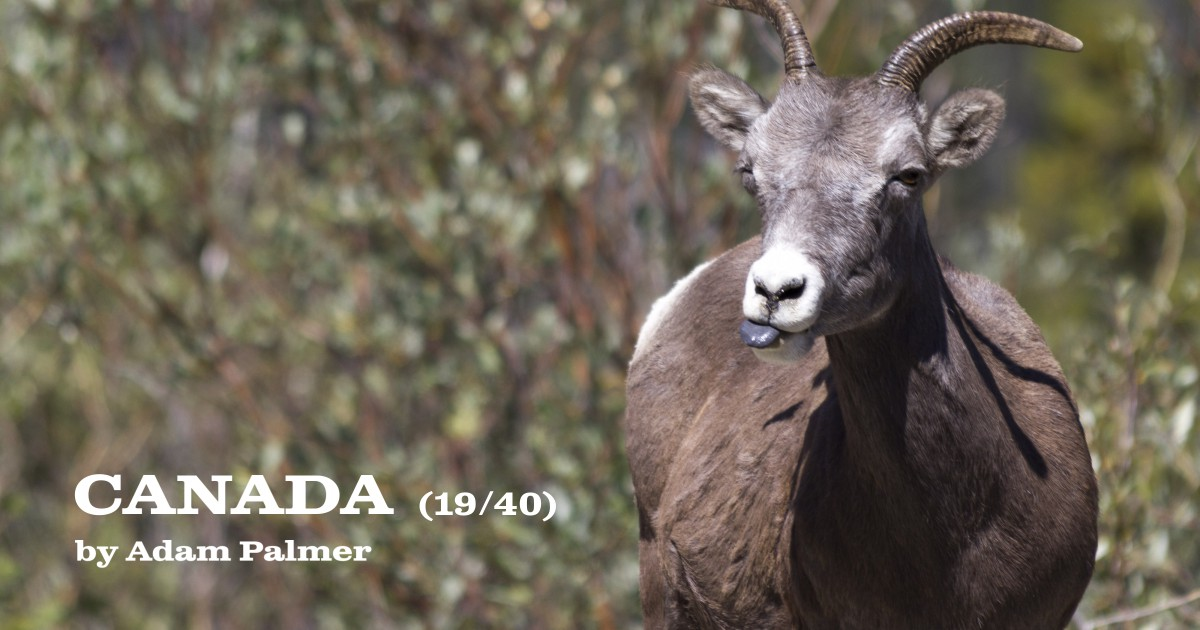
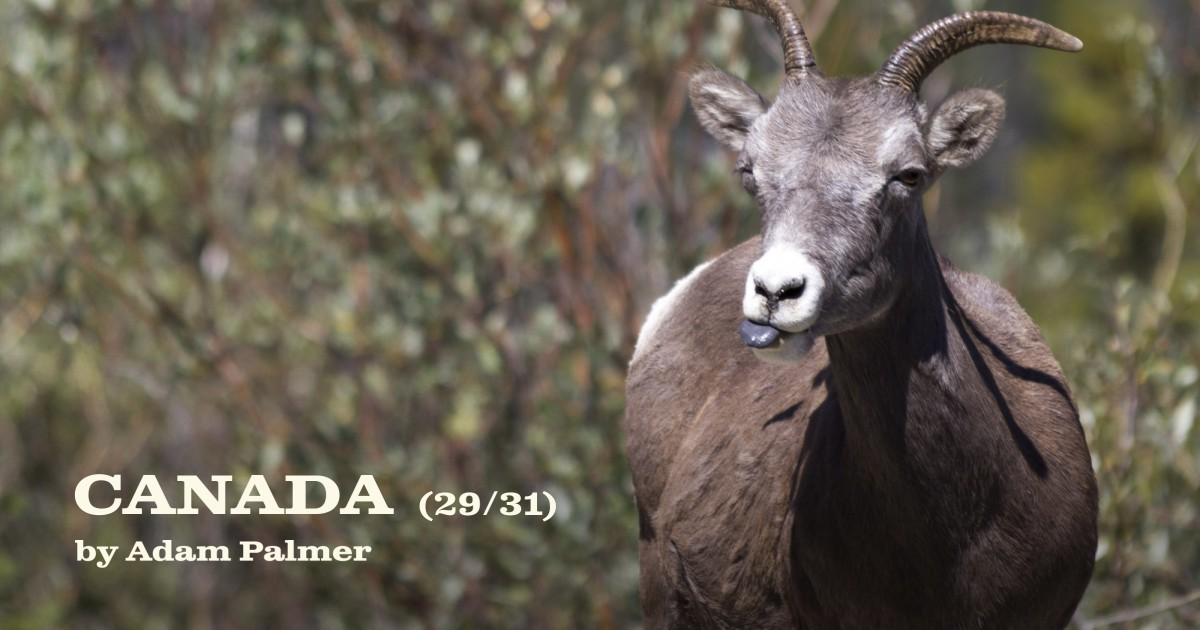
loads of stuff

diff --git a/www/assets/js/src/project/ImageManager.js b/www/assets/js/src/project/ImageManager.js
@@ -22,7 +22,7 @@ define([],
 				var topInView = top >= scrollTop && top < scrollTop + window.innerHeight;
 				var bottomInView = bottom > scrollTop && bottom < scrollTop + window.innerHeight;
 
-				if (topInView || bottomInView)
+				if (topInView || bottomInView || window.data.album == true)
 				{
 					if ($domEl.attr("data-id") != "" && $domEl.attr("data-ratio") != "")
 					{

diff --git a/www/assets/css/nav.css b/www/assets/css/nav.css
@@ -9,6 +9,9 @@ a.album-button {
   visibility: hidden;
   border-bottom: 1px solid #fcf9e8;
   box-sizing: border-box; }
+  @media screen and (max-width: 570px) {
+    a.album-button {
+      height: 60%; } }
   a.album-button .table {
     display: table;
     position: relative;

diff --git a/www/assets/css/nav.scss b/www/assets/css/nav.scss
@@ -17,6 +17,10 @@ a.album-button {
   border-bottom: 1px solid $white;
   box-sizing: border-box;
 
+  @media screen and (max-width: $break-570) {
+    height: 60%;
+  }
+
   &:active, &:hover {
     // border: 8px solid $white;
   }

diff --git a/www/application/controllers/album.php b/www/application/controllers/album.php
@@ -21,7 +21,7 @@ class album extends CI_Controller
 	public function menu($title, $admin = null)
 	{
 		$album = $this->generateAlbum($title);
-		$cover_id = $this->photos_model->getAlbumCoverIdFromTitle($title);
+		$shareImageUrl = $this->getAlbumShareImage($title);
 
 		$this->load->view('includes/header', array(
 				'admin' => $admin,
@@ -29,7 +29,7 @@ class album extends CI_Controller
 				'title' => $title,
 				'og_title' => 'Adam Palmer : '.ucfirst($title).' album',
 				'og_url' => base_url('album/'.$title),
-				'og_image' => base_url('assets/img/photos/share/'.$cover_id.'.jpg')
+				'og_image' => $shareImageUrl
 		));
 
 		$this->load->view('album', array(
@@ -59,7 +59,7 @@ class album extends CI_Controller
 		$this->load->view('includes/header', array(
 				'title' => $title,
 				'screen' => 'photo',
-				'og_title' => 'Adam Palmer : '.ucfirst($title).' album ('.($details['photo']->position + 1).'/'.$details['album']['count'].')',
+				'og_title' => 'Some Photos I Took : '.ucfirst($title).' ('.($details['photo']->position + 1).'/'.$details['album']['count'].')',
 				'og_url' => base_url('photo/'.$title.'/'.$photoId),
 				'og_image' => $shareImageUrl
 		));
@@ -75,18 +75,18 @@ class album extends CI_Controller
 		$this->load->view('includes/footer');
 	}
 
-	public function testShareImage($photoId)
+	public function testAlbumShareImage($title)
 	{
-		$imgUrl = $this->getShareImage($photoId, "CANADA", 10, 47);
+		$imgUrl = $this->getAlbumShareImage($title);
 		$this->load->view('test_share', array("imgUrl"=>$imgUrl));
 	}
 
-	public function getShareImage($photoId, $title, $position, $count)
+	public function getAlbumShareImage($title)
 	{
-		ini_set('memory_limit', '512M');
-		$imgPath = "assets/img/photos/share/".$photoId.".jpg";
+		$imgPath = "assets/img/photos/share/album/".$title.".jpg";
+		$photoId = $this->photos_model->getAlbumCoverIdFromTitle($title);
 
-		if (file_exists($imgPath)) unlink($imgPath);
+		// if (file_exists($imgPath)) unlink($imgPath);
 
 		if ( !file_exists($imgPath) )
 		{
@@ -112,23 +112,140 @@ class album extends CI_Controller
 			$g = ($rgb >> 8) & 0xFF;
 			$b = $rgb & 0xFF;
 
-			// Text colour - mid point = 382
-			if ($r + $g + $b < 500) $textColour = 0xFFFFFF;
-			else $textColour = 0x000000;
+			// Text colour (mid point = 382)
+			$whiteText = 0xfcf9e8;
+			$blackText = 0x33332e;
+			$white = 0xffffff;
+			$black = 0x000000;
 
-			// TEXT
-			$bounds = imagettfbbox ( 42, 0, $font, strtoupper($title) );
+			if ($r + $g + $b < 500)
+			{
+				$textColour = $whiteText;
+				$gradImg = imagecreatefrompng("images/share_grad_dark.png");
+			}
+			else {
+				$textColour = $blackText;
+				$gradImg = imagecreatefrompng("images/share_grad_light.png");
+			}
+
+			// draw text grad bg
+			imagecopyresampled($img, $gradImg, 0, 0, 0, 0, 1200, 630, 1200, 630);
+
+			// get text bounds
 			$top = 472;
+			$bounds = imagettfbbox( 42, 0, $font, strtoupper($title) );
 
-			write_crisp_text($img, 42, 73, $top, 0, $textColour, $font, strtoupper($title));
-			write_crisp_text($img, 24, 100 + $bounds[4], $top+19, 0, $textColour, $font, "(".$position."/".$count.")");
-			write_crisp_text($img, 21, 75, $top+68, 0, $textColour, $font, "by Adam Palmer");
+			// draw final text
+			$this->drawAlbumShareText($img, $top, $textColour, $font, $title, $bounds);
 
-			// imagefilter($img, IMG_FILTER_GAUSSIAN_BLUR, 10);
+			// make final image
 			imagejpeg($img, $imgPath, 90);
 		}
 
 		return base_url($imgPath);
+	}
+
+	public function testShareImage($photoId)
+	{
+		$imgUrl = $this->getShareImage($photoId, "CALIFORNIA", 10, 47);
+		$this->load->view('test_share', array("imgUrl"=>$imgUrl));
+	}
+
+	public function getShareImage($photoId, $title, $position, $count)
+	{
+		$imgPath = "assets/img/photos/share/".$photoId.".jpg";
+
+		// if (file_exists($imgPath)) unlink($imgPath);
+
+		if ( !file_exists($imgPath) )
+		{
+			$font = "fonts/clarendon_wide_bold.otf";
+			$img = imagecreatetruecolor(1200, 630);
+
+			// draw photo in BG
+			$photo = imagecreatefromjpeg("assets/img/photos/2000/".$photoId.".jpg");
+
+			$src_width = imagesx($photo);
+			$src_height = imagesy($photo);
+			$ratio = $src_height / $src_width;
+			$height = 1200*$ratio;
+
+			imagecopyresampled($img, $photo, 0, -$height/2 + 315, 0, 0, 1200, $height, $src_width, $src_height);
+
+			// find average brightness around text
+			$colourPixel = imagecreatetruecolor(1, 1);
+			imagecopyresampled($colourPixel, $img, 0, 0, 66, 467, 1, 1, 700, 120);
+			$rgb = imagecolorat($colourPixel, 0, 0);
+
+			$r = ($rgb >> 16) & 0xFF;
+			$g = ($rgb >> 8) & 0xFF;
+			$b = $rgb & 0xFF;
+
+			// Text colour (mid point = 382)
+			$whiteText = 0xfcf9e8;
+			$blackText = 0x33332e;
+			$white = 0xffffff;
+			$black = 0x000000;
+
+			if ($r + $g + $b < 500)
+			{
+				$textColour = $whiteText;
+				$gradImg = imagecreatefrompng("images/share_grad_dark.png");
+			}
+			else {
+				$textColour = $blackText;
+				$gradImg = imagecreatefrompng("images/share_grad_light.png");
+			}
+
+			// draw text grad bg
+			imagecopyresampled($img, $gradImg, 0, 0, 0, 0, 1200, 630, 1200, 630);
+
+			// get text bounds
+			$top = 472;
+			$bounds = imagettfbbox( 42, 0, $font, strtoupper($title) );
+
+			// draw final text
+			$this->drawShareText($img, $top, $textColour, $font, $title, $bounds, $position, $count);
+
+			// make final image
+			imagejpeg($img, $imgPath, 90);
+		}
+
+		return base_url($imgPath);
+	}
+
+	private function drawImageTransparent($srcImage, $destImage, $color)
+	{
+		for ($x_offset = 0;$x_offset < imagesx($srcImage);$x_offset++)
+		{
+			for ($y_offset = 0;$y_offset < imagesy($srcImage);$y_offset++)
+			{
+				$visibility = (imagecolorat($srcImage,$x_offset,$y_offset) & 0xFF) / 255;
+				if ($visibility > 0)
+					imagesetpixel($destImage,$x_offset,$y_offset,imagecolorallocatealpha($destImage,($color >> 16) & 0xFF,($color >> 8) & 0xFF,$color & 0xFF,(1 - $visibility) * 127));
+			}
+		}
+	}
+
+	private function blurImage($image, $passes)
+	{
+		for ($i=0; $i<$passes; ++$i)
+		{
+			imagefilter($image, IMG_FILTER_GAUSSIAN_BLUR);
+		}
+	}
+
+	private function drawShareText($img, $top, $textColour, $font, $title, $bounds, $position, $count)
+	{
+		write_crisp_text($img, 42, 73, $top, 0, $textColour, $font, strtoupper($title));
+		write_crisp_text($img, 24, 100 + $bounds[4], $top+19, 0, $textColour, $font, "(".$position."/".$count.")");
+		write_crisp_text($img, 21, 75, $top+68, 0, $textColour, $font, "by Adam Palmer");
+	}
+
+	private function drawAlbumShareText($img, $top, $textColour, $font, $title, $bounds)
+	{
+		write_crisp_text($img, 42, 73, $top, 0, $textColour, $font, strtoupper($title));
+		write_crisp_text($img, 21, 75, $top + 68, 0, $textColour, $font, "Some Photos by Adam Palmer");
 	}
 
 	public function getPhotoDetails($title, $photoId)
@@ -176,13 +293,15 @@ class album extends CI_Controller
 		$rows = array();
 		$row = array();
 		$rowCounter = 0;
+		$photoCounter = 0;
 
 		foreach($photos as $photo)
 		{
 			array_push($row, $photo);
 			$rowCounter++;
+			$photoCounter++;
 
-			if ($rowCounter == 2 || $photo->full_width == 1)
+			if ($rowCounter == 2 || $photo->full_width == 1 || $photoCounter == count($photos)) // get last straggler!
 			{
 				// bank row
 				array_push($rows, $row);
@@ -192,6 +311,13 @@ class album extends CI_Controller
 				$rowCounter = 0;
 			}
 		}
+
+//		echo '<pre>';
+//		echo "photos in db: ".count($photos)." photos in rows: ".$photoCounter;
+//		var_dump($rows);
+//		echo '</pre>';
+//		die();
+
 
 		return array(
 			'rows' => $rows,

diff --git a/www/application/helpers/write_crisp_text_helper.php b/www/application/helpers/write_crisp_text_helper.php
@@ -1,5 +1,33 @@
 <?php if ( ! defined('BASEPATH')) exit('No direct script access allowed');
 
+if (!function_exists('imagettftextblur'))
+{
+	function imagettftextblur(&$image,$size,$angle,$x,$y,$color,$fontfile,$text,$blur_intensity = null)
+	{
+		$blur_intensity = !is_null($blur_intensity) && is_numeric($blur_intensity) ? (int)$blur_intensity : 0;
+		if ($blur_intensity > 0)
+		{
+			$text_shadow_image = imagecreatetruecolor(imagesx($image),imagesy($image));
+			imagefill($text_shadow_image,0,0,imagecolorallocate($text_shadow_image,0x00,0x00,0x00));
+			imagettftext($text_shadow_image,$size,$angle,$x,$y,imagecolorallocate($text_shadow_image,0xFF,0xFF,0xFF),$fontfile,$text);
+			for ($blur = 1;$blur <= $blur_intensity;$blur++)
+				imagefilter($text_shadow_image,IMG_FILTER_GAUSSIAN_BLUR);
+			for ($x_offset = 0;$x_offset < imagesx($text_shadow_image);$x_offset++)
+			{
+				for ($y_offset = 0;$y_offset < imagesy($text_shadow_image);$y_offset++)
+				{
+					$visibility = (imagecolorat($text_shadow_image,$x_offset,$y_offset) & 0xFF) / 255;
+					if ($visibility > 0)
+						imagesetpixel($image,$x_offset,$y_offset,imagecolorallocatealpha($image,($color >> 16) & 0xFF,($color >> 8) & 0xFF,$color & 0xFF,(1 - $visibility) * 127));
+				}
+			}
+			imagedestroy($text_shadow_image);
+		}
+		else
+			return imagettftext($image,$size,$angle,$x,$y,$color,$fontfile,$text);
+	}
+}
+
 if ( ! function_exists('write_crisp_text'))
 {
 	/**
@@ -15,7 +43,7 @@ if ( ! function_exists('write_crisp_text'))
 	 */
 	function write_crisp_text($targ, $size, $x, $y, $angle, $color, $font, $text, $centreBounds = null)
 	{
-		$temp = imagecreatetruecolor(1024, 200);
+		$temp = imagecreatetruecolor(2500, 200);
 		imagesavealpha($temp, true);
 		imagefill($temp, 0, 0, imagecolorallocatealpha($temp, 255,255,255,127));
 		imagealphablending($temp,true);
@@ -27,6 +55,8 @@ if ( ! function_exists('write_crisp_text'))
 
 		imagealphablending($temp, true);
 		$bounds = imagettfbbox ( $size*2, 0, $font, $text );
+
+		// draw text
 		imagettftext($temp, $size*2, 0, $tx, $ty, $color, $font, $text);
 
 		$tWidth = $bounds[4]+$xPadding;

diff --git a/www/application/views/includes/header.php b/www/application/views/includes/header.php
@@ -21,8 +21,10 @@
 	<meta property="og:image" content="<?php echo $og_image;?>" />
 	<meta property="og:image:width" content="1200">
 	<meta property="og:image:height" content="630">
-	<meta property="og:site_name" content="Adam Palmer: Some Photos I Took" />
-	<meta property="og:description" content="I took some photos. I developed them. I made a website and put them on the internet. What do you want from me?" />
+	<meta property="og:site_name" content="Some Photos I Took, by Adam Palmer" />
+	<meta property="og:description" content="I took some photographs. Here are those photographs." />
+
+	<meta name="twitter:card" content="summary_large_image">
 
 	<script>
 		window.data = {

diff --git a/www/application/config/production/database.php b/www/application/config/production/database.php
@@ -48,10 +48,10 @@
 $active_group = 'default';
 $active_record = TRUE;
 
-$db['default']['hostname'] = '10.168.1.45';
-$db['default']['username'] = 'smartenu_quiz';
-$db['default']['password'] = '$mArt3nup';
-$db['default']['database'] = 'smartenu_quiz';
+$db['default']['hostname'] = '10.169.0.45';
+$db['default']['username'] = 'palmeram_admin';
+$db['default']['password'] = 'N4qnmrEhsC4JANV';
+$db['default']['database'] = 'palmeram_photos';
 $db['default']['dbdriver'] = 'mysql';
 $db['default']['dbprefix'] = '';
 $db['default']['pconnect'] = TRUE;

diff --git a/www/application/views/includes/footer.php b/www/application/views/includes/footer.php
@@ -25,9 +25,13 @@ else :
 	 * PRODUCTION JS
 	 */
 	?>
+		<!--
 	<script data-main="<?php echo base_url('assets/js/build.min.js?v='.SCRIPT_VERSION);?>" src="<?php echo base_url('assets/js/require.js?v='.SCRIPT_VERSION);?>">
 		// 'assets/js/build.min.js?v'.SCRIPT_VERSION
 	</script>
+	-->
+
+	<script data-main="<?php echo base_url('assets/js/src/init.js?v='.SCRIPT_VERSION);?>" src="<?php echo base_url('assets/js/require.js?v='.SCRIPT_VERSION);?>"></script>
 
 <?php
 endif;

diff --git a/www/application/controllers/home.php b/www/application/controllers/home.php
@@ -15,7 +15,7 @@ class home extends CI_Controller
 		$this->load->view('includes/header', array(
 				'og_title' => 'Adam Palmer : Some Photos I Took',
 				'og_url' => base_url(),
-				'og_image' => base_url('assets/img/photos/share/default.jpg')
+				'og_image' => base_url('assets/img/photos/share/home/share1.jpg')
 		));
 
 		$this->load->view('home', array('albumsList' => $albumsList));

diff --git a/www/application/config/constants.php b/www/application/config/constants.php
@@ -42,7 +42,7 @@ define('FOPEN_READ_WRITE_CREATE_STRICT',		'x+b');
 
 
 // PROJECT SPECIFIC GLOBALS
-define("SITE_TITLE", "Intel Brain Builder 2");
+define("SITE_TITLE", "Adam Palmer");
 
 define("COMPETITION_LINK", "http://www.argos.co.uk/intelcomp");
 define("PERSONALITY_TEST_PATH", "personality");

diff --git a/www/application/config/production/config.php b/www/application/config/production/config.php
@@ -15,7 +15,7 @@
 |
 */
 // $config['base_url']	= 'http://wehaverhythm.com/clients/topspin/intel-brain-circuits/';
-$config['base_url']	= 'http://smartenup.me/';
+$config['base_url']	= 'http://palmerama.tv/';
 
 /*
 |--------------------------------------------------------------------------

diff --git a/www/application/config/routes.php b/www/application/config/routes.php
@@ -55,3 +55,6 @@ $route['get_photo/(:num)/(:num)/(:any)'] = 'photo_maker/getPhoto/$1/$2/$3';
 
 // test share image
 $route['test_share/(:num)'] = 'album/testShareImage/$1';
+
+// test share image
+$route['test_album_share/(:any)'] = 'album/testAlbumShareImage/$1';
